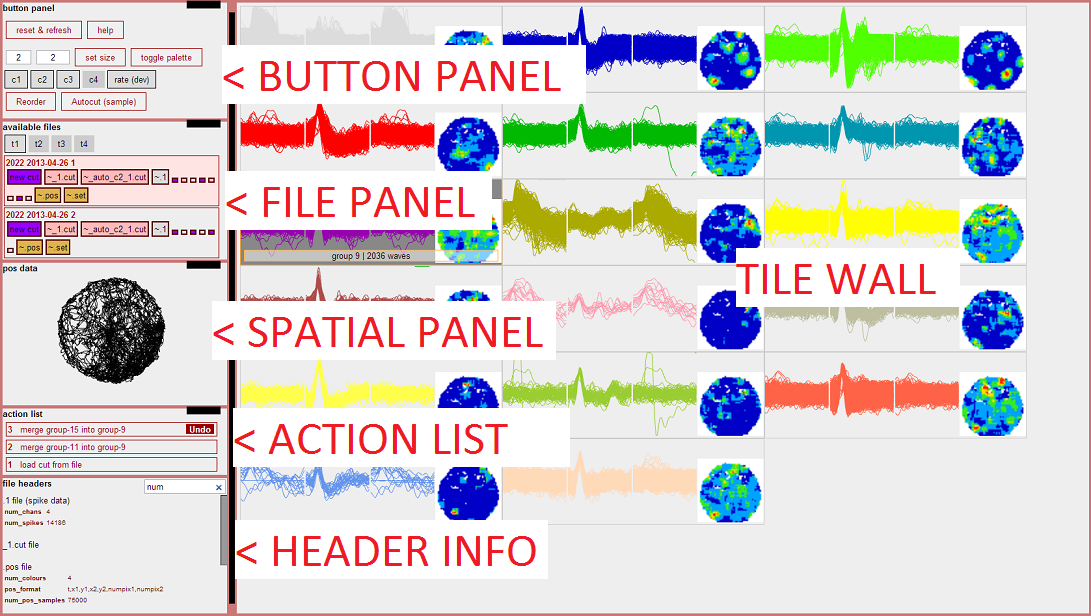
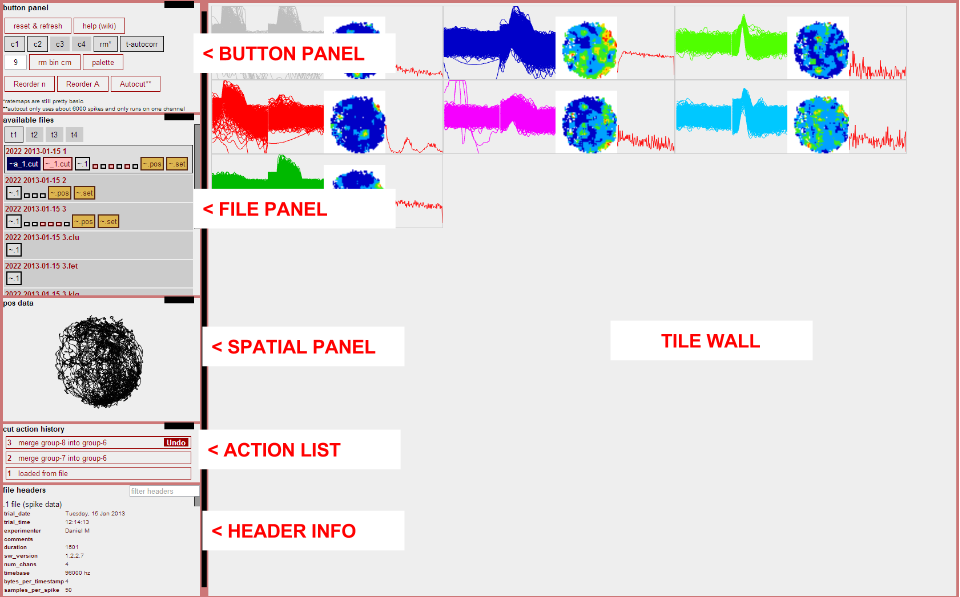
temporalcorr.js now uses a worker

diff --git a/temporalcorr.js b/temporalcorr.js
@@ -1,71 +1,178 @@
 "use strict";
 
 T.TC = function(BYTES_PER_SPIKE,CanvasUpdateCallback, TILE_CANVAS_NUM){
-
-    var plotOpts = {
-        W: 100,
-        H: 50,
-		nBins: 100 //I think you get one extra due to zero bin
-    }
+	//TODO: there is an inefficiency in the worker-main communication.  It might be better to get the worker to actually keep a copy of each slot rather than send a copy each call.
+	//otherwise we might be sending loads of copies of the same cutInds data.
 	
-	var cCut = {};
+	// === WORKER ==================================================
+	var myWorker = BuildWorker(function(){
+		"use strict";
+		
+		// Some functions copied (and simplified) from Mlib.js and utils.js
+		var Swap32 = function(val) {
+			return   ((val & 0xFF) << 24)
+				   | ((val & 0xFF00) << 8)
+				   | ((val >> 8) & 0xFF00)
+				   | ((val >> 24) & 0xFF);
+		}
+		var endian = function(){
+			var b = new ArrayBuffer(2);
+			(new DataView(b)).setInt16(0,256,true);
+			return (new Int16Array(b))[0] == 256? 'L' : 'B';
+		}();
+		var sort = function(x){ //in-place sort
+			Array.prototype.sort.call(x,function(a,b){return a-b;}); 
+		}
+		var rDivide = function(x,d){ //in-place divide by scalar
+			for(var i=0;i<x.length;i++)
+				x[i] /= d; //if x is integer this division will give the floor of x/d
+		}
+		var hist = function(inds){
+		    var S = max(inds) + 1; //zero-based indexing, remember!
+			var counts = new Uint32Array(S);
+			for(var i=0;i<inds.length;i++)
+				counts[inds[i]]++;
+			return counts;
+		}
+		var max = function(X){
+			var m = X[0];
+			for(var i = 1;i< X.length; i++)
+				(m < X[i]) && (m = X[i])
+			return m; 
+        }
+		// ==============================================
+		
+		var allSpikeTimes = null;
+		var histTimer = null; 
+		var histSlotQueue = []; //holds a queue of which slots need to be sent to GetGroupHist_sync
+		var histSlotArgs = []; //holds the arguments for the GetGroupHist_sync function, indexed by slot number
+		
+		var CreateAllSpikeTimes = function(buffer,N_val,timebase,BYTES_PER_SPIKE){	
+			CancelAll();
+			if(!N_val){
+				allSpikeTimes = null;
+				return;
+			}
+			
+			var oldData = new Int32Array(buffer);
+			allSpikeTimes = new Uint32Array(N_val);
+
+			for(var i=0; i<N_val; i++) //get the timestamp for each spike
+				allSpikeTimes[i] = oldData[BYTES_PER_SPIKE/4*i]; //we are accessing the buffer as 4byte ints, we want the first 4bytes of the i'th spike
+
+			if (endian == 'L') 
+				for(var i=0;i<N_val; i++)
+					allSpikeTimes[i] = Swap32(allSpikeTimes[i]);
+			
+			timebase/= 1000; //get it in miliseconds
+			for(var i=0;i<N_val;i++)
+				allSpikeTimes[i] /= timebase;
+				
+		}
+        
+		var GetGroupHist_sync = function(cutIndsBuffer,slotInd,maxDeltaT,generation,binSize){
+			if(allSpikeTimes == null)
+				throw('GetGroupHist called before CreateAllSpikeTimes');
+			
+			var cutInds = new Uint32Array(cutIndsBuffer);
+			
+			// note maxDeltaT and allSpikeTimes should be in the same units, represented as uin32s.
+			var spikeTimes = new Uint32Array(cutInds.length);
+			for(var i=0;i<cutInds.length;i++)
+				spikeTimes[i] = allSpikeTimes[cutInds[i]]
+				
+			sort(spikeTimes);
+			var diffs = [];
+			
+			// For every pair of spikes separated in time by no more than maxDeltaT, record
+			// the time separation in the diffs array.
+			for(var laterInd=1, earlierInd = 0;laterInd<spikeTimes.length;laterInd++){
+				var laterTime = spikeTimes[laterInd];
+				while (spikeTimes[earlierInd] < laterTime - maxDeltaT)
+					earlierInd++;
+				for(var i=earlierInd;i<laterInd;i++)
+					diffs.push(laterTime - spikeTimes[i]);
+			}
+			
+			var diffs = new Uint16Array(diffs);
+			rDivide(diffs,binSize); //in-place integer division does a = floor(a/b)
+			
+			var ret = hist(diffs);	
+			//ret[0] += cutInds.length; //to take acount of the self difference for each spike
+			
+			self.postMessage({foo:"PlotHist",args:[ret.buffer,slotInd,maxDeltaT,generation]},[ret.buffer])
+
+		}
+		
+		var GetGroupHist = function(buffer,slotInd,maxDeltaT,generation,binSize){
+			//rather than directly call the GetGroupHist_sync function, we create a queue of calls to the function and execute them 
+			//asynchrounsly with setInterval.  This means we can cancel the queue by stopping the timer.
+			if(!histSlotArgs[slotInd])
+				histSlotQueue.push(slotInd); //if this slot is already in the queue then we will just assign new args
+				
+			histSlotArgs[slotInd] = arguments;
+			
+			if(!histTimer){
+				setInterval(function(){
+					var s = histSlotQueue.shift();
+					GetGroupHist_sync.apply(null,histSlotArgs[s]);
+					histSlotArgs[s] = null;
+					if(histSlotQueue.length == 0)
+						clearInterval(histTimer);
+				},1);
+			}
+		}
+		
+		var CancelAll = function(){
+			clearInterval(histTimer);
+			histSlotQueue = [];
+			histSlotArgs = [];
+		}
+		
+		var myFoos = {	CreateAllSpikeTimes: CreateAllSpikeTimes, 
+						GetGroupHist: GetGroupHist, 
+						CancelAll: CancelAll };
+		self.onmessage = function(e){ myFoos[e.data.foo].apply(null,e.data.args); } //main thread has requested that the worker call function foo with arguments args
+		
+	});
+	
+	// ==== END WORKER =========================================================
+	
+    var plotOpts = function(){
+		var p = {W: 100, H: 50};
+		p.nBins = p.W; //I think you may get one extra due to zero bin..dunno?
+		return p;
+	}();
+	
+	var cCut = null;
 	var show = false;
-	var ready = false;
 	var renderState = {generation: [],
 						maxDeltaT: [], 
 					   desiredMaxDeltaT: 500} //miliseconds
-	var allSpikeTimes = null;
-				   
+					   
+					   
+	
 	var LoadTetrodeData = function(N_val, buffer,timebase){
-		ClearAll();
+		cCut = null;
+		renderState.generation = [];
+		renderState.maxDeltaT = [];
 		
-		//create the alLSpikeTimes array from the buffer
-		var oldData = new Int32Array(buffer);
-    	allSpikeTimes = new Uint32Array(N_val);
-
-		for(var i=0; i<N_val; i++) //get the timestamp for each spike
-			allSpikeTimes[i] = oldData[BYTES_PER_SPIKE/4*i]; //we are accessing the buffer as 4byte ints, we want the first 4bytes of the i'th spike
-
-		if (endian == 'L') 
-			for(var i=0;i<N_val; i++)
-				allSpikeTimes[i] = Swap32(allSpikeTimes[i]);
+		if(!N_val){
+			myWorker.postMessage({foo: "CreateAllSpikeTimes", args: []}); //among other things this cancels any queued histing
+			//TODO: decide whether we need to send null canvases
+			return;
+		}
 		
-        timebase/= 1000; //get it in miliseconds
-        for(var i=0;i<N_val;i++)
-            allSpikeTimes[i] /= timebase;
-            
-		ready = true;
+		buffer = M.clone(buffer); //we need to clone it so that when we transfer ownsership we leave a copy in this thread for other modules to use
+		myWorker.postMessage({foo: "CreateAllSpikeTimes", args: [buffer, N_val, timebase, BYTES_PER_SPIKE]},[buffer]);
+		
+		// A subtle, but important, point is that because messages on the worker are processed in order we don't need to wait for the createspikes to have completed
+		// before we post a GetGroupHist request (in fact the worker doesn't bother to inform us when it's done with the above call it just sits there waiting to process
+		// the next thing in the message queue).  Also, because the GetGroupHist function is executed asynchrously on the worker we are able to cancel the queue.
 	}
-		
-    var GetGroupTDiffs = function(cutInds,allSpikeTimes,maxDeltaT){
-        // note maxDeltaT and allSpikeTimes should be in the same units, represented as uin32s.
-            
-        var spikeTimes = new Uint32Array(cutInds.length);
-        for(var i=0;i<cutInds.length;i++)
-            spikeTimes[i] = allSpikeTimes[cutInds[i]]
-			
-        M.sort(spikeTimes,M.IN_PLACE);
-        var diffs = [];
-        
-        // For every pair of spikes separated in time by no more than maxDeltaT, record
-        // the time separation in the diffs array.
-        for(var laterInd=1, earlierInd = 0;laterInd<spikeTimes.length;laterInd++){
-            var laterTime = spikeTimes[laterInd];
-            while (spikeTimes[earlierInd] < laterTime - maxDeltaT)
-                earlierInd++;
-            for(var i=earlierInd;i<laterInd;i++)
-                diffs.push(laterTime - spikeTimes[i]);
-        }
-    
-        return new Uint16Array(diffs); // Note that diffs has only non-negative values and it omitts the self difference (zero) for each spike
-    }
-
-    var PlotTDiffs= function(diffs,cutInds,maxDeltaT){
-        var binSize = maxDeltaT / plotOpts.nBins;
-        var diffInds = M.toInds(diffs,binSize);
-            
-        var hist = M.accumarray(diffInds,1,"sum");
-        //hist[0] += cutInds.length; //to take acount of the self difference for each spike
+	
+	var PlotHist = function(histBuffer,slotInd,maxDeltaT,generation){
+		var hist = new Uint32Array(histBuffer);
         var $canvas = $("<canvas width='" + plotOpts.W + "' height='" + plotOpts.H + "' />");
         var ctx = $canvas.get(0).getContext('2d');
         
@@ -78,16 +185,16 @@ T.TC = function(BYTES_PER_SPIKE,CanvasUpdateCallback, TILE_CANVAS_NUM){
 			ctx.lineTo(i*xStep,plotOpts.H-hist[i]*yScale);
 			//TODO: make it steps not a "smooth" line
 		}
-        
 		ctx.strokeStyle="red";
 		ctx.stroke();
-        return $canvas;
+		
+		CanvasUpdateCallback(slotInd,TILE_CANVAS_NUM,$canvas); //send the plot back to main
+		renderState.maxDeltaT[slotInd] = maxDeltaT;
+		renderState.generation[slotInd] = generation;
     }
     
     var SlotsInvalidated = function(cut,newlyInvalidatedSlots,isNewCut){
-		if(!ready) 
-			throw(new Error("SlotsInvalidated temporalcorr before ready"))
-
+		
         if(cut == null && cCut == null)
             throw(new Error ("SlotsInvalidated temporalcorr with null cut"));
         
@@ -101,6 +208,8 @@ T.TC = function(BYTES_PER_SPIKE,CanvasUpdateCallback, TILE_CANVAS_NUM){
 			renderState.generation = [];
 			renderState.maxDeltaT = [];
 		}
+		
+		var binSize = renderState.desiredMaxDeltaT/plotOpts.nBins;
 		
 		for(var s=0;s<newlyInvalidatedSlots.length;s++)if(newlyInvalidatedSlots[s]){
 			var slot_s = cCut.GetImmutableSlot(s);
@@ -116,18 +225,15 @@ T.TC = function(BYTES_PER_SPIKE,CanvasUpdateCallback, TILE_CANVAS_NUM){
             if(renderState.generation[s] == slot_s.generation && renderState.maxDeltaT[s] == renderState.desiredMaxDeltaT)
 				continue; //immutable has already been rendered with the requested maxDeltaT
             
-			var diffs = GetGroupTDiffs(slot_s.inds,allSpikeTimes,renderState.desiredMaxDeltaT); //get a list of all pairwise temporal differences
-			var $canvas = PlotTDiffs(diffs,slot_s.inds,renderState.desiredMaxDeltaT); //plot a histogram of these differences
-			CanvasUpdateCallback(s,TILE_CANVAS_NUM,$canvas); //send the plot back to main
-			
-			renderState.maxDeltaT[s] = renderState.desiredMaxDeltaT; //record that we've rendered this immutable with this max delta t
-			renderState.generation[s] = slot_s.generation;
+			var inds = M.clone(slot_s.inds); //we need to clone these before transfering them, in order to keep a copy on this thread
+			myWorker.postMessage({foo:"GetGroupHist",args:[inds.buffer,s,renderState.desiredMaxDeltaT,slot_s.generation,binSize]},[inds.buffer]);
+			// Worker will hopefully come back with a PlotHist(hist,...) event 
 		}
 
 	}
 
     var InvalidateAll = function(){
-		if(!ready)
+		if(!cCut)
 			return;
 		SlotsInvalidated(null,M.repvec(1,cCut.GetNImmutables())); //invalidate all slots
 	}
@@ -153,13 +259,8 @@ T.TC = function(BYTES_PER_SPIKE,CanvasUpdateCallback, TILE_CANVAS_NUM){
 		InvalidateAll();
 	}
 	
-	var ClearAll = function(){
-		ready = false;
-		renderState.generation = [];
-		renderState.maxDeltaT = []; 
-		allSpikeTimes = null;
-		//TODO: decide whether we need to send null canvases
-	}
+	var myFoos = {PlotHist: PlotHist};
+	myWorker.onmessage = function(e){ myFoos[e.data.foo].apply(null,e.data.args); } //worker has requested that the main thread call function foo with arguments args
 	
     return {
 		SlotsInvalidated: SlotsInvalidated,

diff --git a/index.html b/index.html
@@ -32,27 +32,24 @@ you can drag further files onto the window at any point<br>
 	<button class="help_button">help (wiki)</button>
 	</div>
 
-	<div class="button_group">
-	<input type="text" id="size_input" value="2" size ="1">
-	<button id="apply_size">set wave size</button>
-	&nbsp;&nbsp;
-	<input type="text" id="rm_bin_size" value="2.5" size ="1">
-	<button id="apply_rm_size">set bin size (cm)</button>
-		
-	</div>
 
 	<div class="button_group">
 		<input type="checkbox" name="channel" id="channel1" value="1" /><label for="channel1">c1</label>
 		<input type="checkbox" name="channel" id="channel2" value="2"/><label for="channel2">c2</label>
 		<input type="checkbox" name="channel" id="channel3" value="3"/><label for="channel3">c3</label>
 		<input type="checkbox" name="channel" id="channel4" value="4"/><label for="channel4">c4</label>
-        <input type="checkbox" name="channel" id="ratemaps_chk" value="101"/><label for="ratemaps_chk">rate*</label>
+        <input type="checkbox" name="channel" id="ratemaps_chk" value="101"/><label for="ratemaps_chk">rm*</label>
 		<input type="checkbox" name="channel" id="tautocorr_chk" value="201"/><label for="tautocorr_chk">t-autocorr</label>
 		
 	</div>
 	<div class="button_group">
-	<button id="toggle_palette">toggle palette</button> 
+	<input type="text" id="size_input" value="2" size ="1" style="display:none;">
+	<button id="apply_size" style="display:none;">wave size</button>
+	<input type="text" id="rm_bin_size" value="2.5" size ="1">
+	<button id="apply_rm_size">rm bin cm</button>
+	<button id="toggle_palette">palette</button> 
 	</div>
+
 	<div class="button_group">
 	<button id="reorder_n_button">Reorder n</button>
 	<button id="reorder_A_button">Reorder A</button>

diff --git a/Mlib.js b/Mlib.js
@@ -79,10 +79,14 @@ var M = {
 		return result;
 	},
 	
-	clone: function(a){ //TODO: is there no builtin way of doing this?
-		var result = new a.constructor(a.length);
-		result.set(a);
-		return result;
+	clone: function(a){ 
+		if(a.slice){
+			return a.slice(0); //for basic arrays and pure ArrayBuffer
+		}else{
+			var result = new a.constructor(a.length); //
+			result.set(a);
+			return result;
+		}
 	},
 	
 	range: function(a,b){

diff --git a/gpu-distmatrix.js b/gpu-distmatrix.js
@@ -214,7 +214,7 @@ T.DM = function(){
     			gl.readPixels(0, 0, S/2, S, gl.RGBA, gl.UNSIGNED_BYTE, tmpMatrixView8);
     
     			//8. Store the new batch in the resultMatrix
-    			workerCombineBatches.postMessage({params:true,a:a,b:b});
+    			workerCombineBatches.postMessage({params:true,a:a,b:b}); //TODO: no need to do it in two separate calls
     			workerCombineBatches.postMessage(tmpMatrix,[tmpMatrix]);
     		}
     	}
